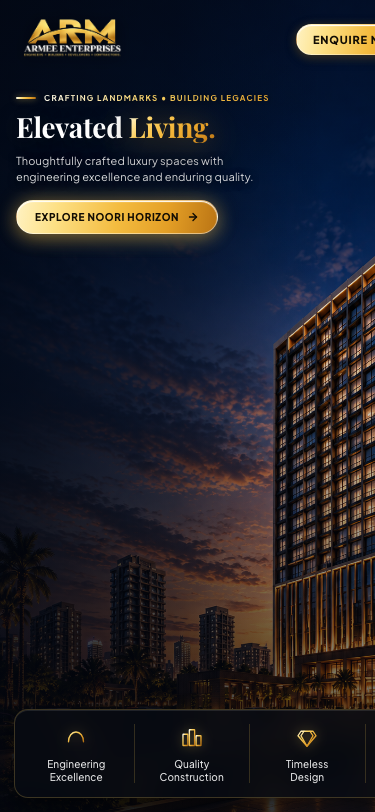
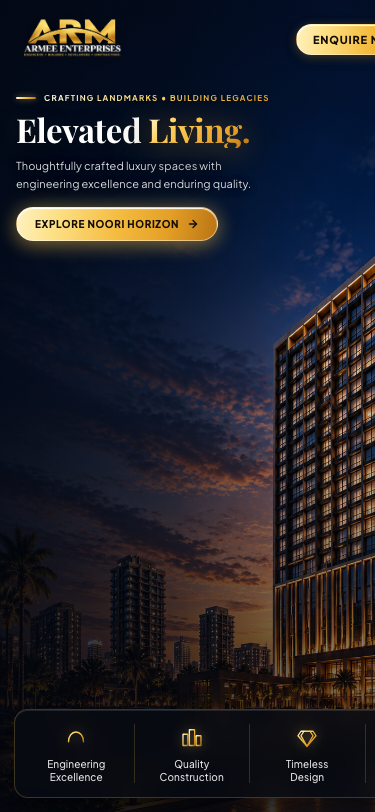
sdf

Changed region(s): [[0.0293, 0.1232, 0.6747, 0.3079]]

diff --git a/style.css b/style.css
@@ -855,17 +855,17 @@ button {
   line-height: 1;
 }
 
-/* Mobile Headline: Single line with Elevated in white and Living. in 24K Gold */
+/* Mobile Headline: Single line with increased font size and luxury serif aesthetic */
 .mobile-headline {
   font-family: var(--font-serif);
-  font-size: clamp(23px, 6.2vw, 28px);
-  line-height: 1.1;
+  font-size: clamp(26px, 7.4vw, 33px);
+  line-height: 1.08;
   font-weight: 700;
-  letter-spacing: -0.3px;
+  letter-spacing: -0.4px;
   margin: 0;
   display: flex;
   align-items: baseline;
-  gap: 6px;
+  gap: 7px;
   white-space: nowrap;
 }
 
@@ -881,16 +881,23 @@ button {
   filter: drop-shadow(0 3px 14px rgba(244, 188, 64, 0.45)) drop-shadow(0 4px 20px rgba(0, 0, 0, 0.8));
 }
 
-/* Mobile Description - Refined 2-line layout */
+/* Mobile Description - Strictly 2 Lines */
 .mobile-desc {
-  font-size: 11px;
+  font-size: clamp(9.5px, 2.8vw, 11px);
   line-height: 1.5;
-  color: rgba(255, 255, 255, 0.85);
+  color: rgba(255, 255, 255, 0.86);
   font-weight: 400;
-  max-width: 250px;
   text-shadow: 0 2px 8px rgba(0, 0, 0, 0.8);
-  letter-spacing: 0.15px;
+  letter-spacing: 0.1px;
   margin: 0;
+  display: flex;
+  flex-direction: column;
+  gap: 2px;
+}
+
+.mobile-desc .desc-line {
+  display: block;
+  white-space: nowrap;
 }
 
 /* Mobile Explore Button */

diff --git a/index.html b/index.html
@@ -315,7 +315,8 @@
 
       <!-- Concise Subtitle: Exactly 2 Lines -->
       <p class="mobile-desc">
-        Thoughtfully crafted luxury spaces with<br>engineering excellence and enduring quality.
+        <span class="desc-line">Thoughtfully crafted luxury spaces with</span>
+        <span class="desc-line">engineering excellence and enduring quality.</span>
       </p>
 
       <!-- Primary Explore Button -->
